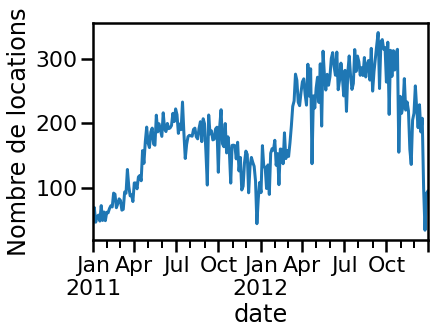
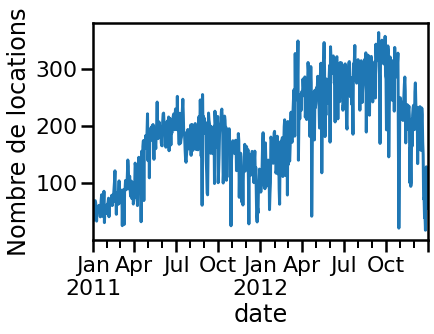
[ci skip] iter 878a1fc53d710b24057753480bd2532899af082a

diff --git a/searchindex.js b/searchindex.js
@@ -1,1 +1,1 @@
-Search.setIndex({docnames:["chapter_00/chapter_00_intro","chapter_00/file_00","chapter_00/file_01","landing-page"],envversion:{"sphinx.domains.c":2,"sphinx.domains.changeset":1,"sphinx.domains.citation":1,"sphinx.domains.cpp":4,"sphinx.domains.index":1,"sphinx.domains.javascript":2,"sphinx.domains.math":2,"sphinx.domains.python":3,"sphinx.domains.rst":2,"sphinx.domains.std":2,"sphinx.ext.intersphinx":1,sphinx:56},filenames:["chapter_00/chapter_00_intro.md","chapter_00/file_00.py","chapter_00/file_01.py","landing-page.md"],objects:{},objnames:{},objtypes:{},terms:{"0":[1,2],"000000":1,"01":1,"020000":1,"1":[1,2],"10":[1,2],"104500":1,"11":1,"12":1,"122340":1,"13":1,"14":1,"142":1,"15":1,"16":1,"17":1,"171850":1,"17378":1,"17379":1,"181":1,"189":1,"190098":1,"192556":1,"192930":1,"194000":1,"1_000":[1,2],"2":[1,2],"20":2,"2011":1,"22":1,"24":1,"25":1,"253700":1,"27":1,"2727":1,"281":1,"2879":1,"3":[1,2],"32":1,"333300":1,"340000":1,"387599":1,"3d":1,"3f":2,"4":1,"40":1,"42":1,"463088":1,"475775":1,"480000":1,"484800":1,"496987":1,"5":1,"50":[1,2],"500000":1,"6":1,"621200":1,"627229":1,"630000":1,"660000":1,"7":1,"75":1,"780000":1,"8":1,"80":1,"81":1,"850700":1,"9":1,"977":1,"\u00e9chantillon":1,"\u00e9chantillonnag":1,"\u00e9galement":1,"\u00e9quival":1,"\u00e9quivalent":1,"\u00e9t\u00e9":1,"\u00e9tudier":1,"\u00e9tudion":1,"\u00eatre":1,"acqu\u00e9rir":1,"appara\u00eet":1,"appr\u00e9cier":1,"associ\u00e9":1,"bruit\u00e9":1,"caract\u00e8r":1,"cat\u00e9gori":1,"cel\u00e0":1,"cha\u00een":1,"class":1,"concr\u00e8tement":1,"consid\u00e9r\u00e9":1,"corr\u00e9l\u00e9":1,"corr\u00e9lat":1,"d\u00e9cider":1,"d\u00e9fini":1,"d\u00e9finir":1,"d\u00e9finiron":1,"d\u00e9j\u00e0":1,"d\u00e9pendant":1,"d\u00e9viation":1,"derni\u00e8r":1,"diff\u00e9renci":1,"diff\u00e9rent":1,"dissoci\u00e9":1,"effectu\u00e9":1,"encod\u00e9":1,"exprim\u00e9":1,"final":1,"float":2,"forc\u00e9ment":1,"function":1,"g\u00e9n\u00e9ralement":1,"humidit\u00e9":1,"import":[1,2],"inf\u00e9r\u00e9":1,"int\u00e9ress":1,"int\u00e9ress\u00e9":1,"int\u00e9ressant":1,"int\u00e9rieur":1,"m\u00e9t\u00e9orologiqu":1,"m\u00e9thode":1,"m\u00eame":1,"majorit\u00e9":1,"mani\u00e8r":1,"mod\u00e8l":1,"n\u00e9gativ":1,"n\u00e9gligeon":1,"null":1,"observ\u00e9":1,"p\u00e9riod":1,"particuli\u00e8r":1,"ph\u00e9nom\u00e8n":1,"pr\u00e9c\u00e9demment":1,"pr\u00e9c\u00e9dent":1,"pr\u00e9dictif":1,"pr\u00e9diction":1,"pr\u00e9dire":1,"pr\u00e9dite":1,"pr\u00e9senc":1,"pr\u00e9sent":1,"pr\u00e9sent\u00e9":1,"pr\u00e9sentir":1,"pr\u00e9traitement":1,"pr\u00e9traiter":1,"premi\u00e8r":1,"probl\u00e8m":1,"r\u00e9soudr":1,"r\u00e9utiliseron":1,"repr\u00e9sent":1,"repr\u00e9sent\u00e9":1,"s\u00e9lectionn":1,"sp\u00e9cifiqu":1,"stock\u00e9":1,"structur\u00e9":1,"temp\u00e9ratur":1,"true":1,"unit\u00e9":1,"utilis\u00e9":1,"v\u00e9lo":1,"v\u00e9rifier":1,_:[1,2],abonn:1,acceler:1,additionel:1,advient:1,affich:1,afin:1,ailleur:1,aller:1,allon:1,alor:1,alpha:[1,2],amont:1,analys:0,anne:[1,2],appartienn:1,appel:1,apprendra:1,appri:1,arang:2,assez:1,astyp:1,atemp:2,attard:1,attendr:1,au:1,augment:1,auron:1,autr:1,aux:1,avant:1,avec:1,avoir:1,avon:1,ax:1,axi:2,base:1,besoin:1,bien:1,bike_shar:[1,2],bin:2,black:[1,2],bonn:1,boxplot:1,calcul:1,caster:1,categori:1,ce:1,ceci:1,cela:1,cell:1,cepend:1,certain:1,cet:1,cett:1,chacun:1,changer:1,chapitr:1,chaqu:1,charger:1,choic:[1,2],choisiron:1,chose:1,ci:1,cinq:1,cnt:2,colonn:1,color:1,column:[1,2],combin:1,comm:1,components_:2,comprendr:1,compris:1,compt:1,concat:2,concern:1,condit:1,conditionnel:1,connaiss:1,consist:1,constant:1,constat:1,context:1,contienn:1,convers:1,convertir:1,copi:[1,2],core:1,correspond:1,correspondr:1,couleur:1,count:1,cross_valid:2,csv:[1,2],curieux:1,cv_result:2,dai:1,dan:1,data:[1,2],datafram:[1,2],dataset:[1,2],datetim:1,datetime64:1,de:[0,2],decomposit:2,densiti:1,describ:1,design:1,dessou:1,dessu:1,deux:1,devon:1,devra:1,diag_kind:1,diagonal:1,difficil:1,discret:1,discretis:1,distanc:1,distribut:1,doit:1,donc:1,donner:1,drop:1,dt:1,dtedai:2,dtype:1,du:[1,2],edgecolor:2,effectu:1,effet:1,ell:1,empiriqu:1,en:1,encod:1,ensuit:1,entier:1,entr:1,entri:1,error:2,est:1,estim:1,etc:1,euclidienn:1,eventuel:1,exclur:1,exempl:1,exercic:1,exist:1,explained_variance_:2,explained_variance_ratio_:2,extrair:1,f:[1,2],faibl:1,faisant:1,fals:[1,2],faut:1,featur:2,feature_nam:2,fichier:1,figsiz:[1,2],fit:2,float64:1,focalis:1,foi:1,fonction:1,fonctionnera:1,form:1,frame:1,from:2,gaussienn:1,global:1,go:3,grand:1,grandeur:1,graphiqu:1,grid:2,group:1,head:1,heatmap:2,height:1,height_axi:1,heur:2,hist:[1,2],histogramm:1,holidai:2,horizontal:1,hour:[1,2],hr:2,hue:1,hum:2,humidit:[1,2],i:2,ici:1,id:1,identiqu:1,il:1,iloc:2,impact:1,inclur:1,index:[1,2],index_sous_echantillon:1,indic:2,indiqu:1,indiquerait:1,info:[1,2],inform:1,int64:1,jour:[1,2],kde:1,keep:2,kei:2,kernel:1,kind:1,la:2,le:1,learn:1,lectur:1,len:1,let:3,leur:1,liant:1,librairi:1,lien:1,lieu:1,lign:1,lineair:1,linear_model:2,list:2,loc:1,locat:[1,2],location_velo:1,location_velo_discret:1,logspac:2,loin:1,longu:1,lorsqu:1,machin:1,mainten:1,make_pipelin:2,manquant:1,margin:1,marginal:1,matplotlib:1,mauvais:1,max:1,mb:1,mean:[1,2],memori:1,meteo:[1,2],method:1,mi:1,mieux:1,min:1,mnth:2,model:2,model_select:2,moi:[1,2],moment:1,month:1,mot:1,moyenn:1,n:[1,2],n_compon:2,n_job:2,naturel:1,ne:1,neg_mean_absolute_error:2,nom:1,nombr:[1,2],non:1,none:2,normalis:1,nos:1,noter:1,notion:1,nou:1,np:[1,2],ns:1,nuag:1,nul:1,num:2,numpi:[1,2],nuniqu:1,obj:1,object:1,observ:1,observon:1,obtenir:1,obtenon:1,onli:2,option:1,ordinal:1,ordr:1,ores:1,ou:1,outil:1,pa:1,pairplot:[1,2],panda:[1,2],par:1,parse_d:[1,2],part:1,parti:1,partir:1,pc:2,pca:2,pd:[1,2],permet:1,permettr:1,pertin:1,pertinent:1,petit:1,peu:1,peut:1,peuvent:1,pipelin:2,plot:1,plt:1,plu:1,plusieur:1,point:1,possibl:1,poster:1,postiv:1,pour:1,pourraient:1,pourrait:1,pourrion:1,pourron:1,pouvon:1,pratiqu:1,pratiqueron:1,premier:1,preprocess:2,pri:1,print:2,project:2,puisqu:1,puiss:1,pyplot:1,q:1,qcut:1,qu:1,quand:1,quantil:1,que:1,quell:1,queue:1,qui:1,random:[1,2],randomst:[1,2],rang:2,rangeindex:1,rappelon:1,read_csv:[1,2],regard:1,regardon:1,relat:1,renam:2,replac:1,resampl:1,ressenti:[1,2],rest:1,revanch:1,ridgecv:2,rng:[1,2],s:3,saison:[1,2],san:1,savoir:1,scatter:1,score:2,se:1,seaborn:[1,2],season:2,select_dtyp:2,semain:[1,2],sembl:1,semblerait:1,sera:1,serait:1,seront:1,set_context:[1,2],set_index:1,set_titl:1,set_xlabel:1,set_ylabel:1,seuil:1,seulement:1,shape:2,si:1,similair:1,simpl:1,size:[1,2],sklearn:2,sn:[1,2],soit:1,somm:1,sont:1,sou:1,sqrt:2,standard:1,standardscal:2,statisqu:1,statistiqu:0,std:[1,2],stock:1,stocker:1,stripplot:1,style:1,subplot:1,subset:2,suffirait:1,suivant:1,suppos:1,sur:1,tableau:1,talk:2,target:2,te:1,tel:1,temp:[1,2],temperatur:[1,2],tendanc:1,test_scor:2,to_datetim:1,total:1,tou:1,tout:1,tradionnel:0,traditionel:1,travail:1,troi:1,type:1,un:1,uniqu:1,usag:1,util:1,utilis:1,utilison:1,vacanc:[1,2],valeur:1,valu:2,variable_a_exclur:1,variable_d:1,variable_numeriqu:1,varianc:1,venon:1,vent:[1,2],vertical:1,visualis:1,visuel:1,vitess:[1,2],voulon:1,vu:1,weathersit:2,weekdai:2,white:1,windspe:2,x:1,y:1,year:1,yr:2},titles:["Real-world examples","Analyse de statistique tradionnelle","&lt;no title&gt;","Landing page"],titleterms:{"\u00e0":1,"donn\u00e9":1,"int\u00e9r\u00eat":1,"li\u00e9e":1,"num\u00e9riqu":1,analys:1,d:1,date:1,de:1,et:1,exampl:0,heur:1,jeu:1,l:1,la:1,land:3,notr:1,page:3,real:0,statistiqu:1,tradionnel:1,variabl:1,world:0}})
+Search.setIndex({docnames:["chapter_00/chapter_00_intro","chapter_00/file_00","chapter_00/file_01","landing-page"],envversion:{"sphinx.domains.c":2,"sphinx.domains.changeset":1,"sphinx.domains.citation":1,"sphinx.domains.cpp":4,"sphinx.domains.index":1,"sphinx.domains.javascript":2,"sphinx.domains.math":2,"sphinx.domains.python":3,"sphinx.domains.rst":2,"sphinx.domains.std":2,"sphinx.ext.intersphinx":1,sphinx:56},filenames:["chapter_00/chapter_00_intro.md","chapter_00/file_00.py","chapter_00/file_01.py","landing-page.md"],objects:{},objnames:{},objtypes:{},terms:{"0":[1,2],"000000":1,"01":1,"020000":1,"1":[1,2],"10":[1,2],"104500":1,"11":1,"12":1,"122340":1,"13":1,"14":1,"142":1,"15":1,"16":1,"17":1,"171850":1,"17378":1,"17379":1,"18":1,"181":1,"189":1,"190098":1,"192556":1,"192930":1,"194000":1,"1_000":[1,2],"2":[1,2],"20":2,"2011":1,"2012":1,"22":1,"24":1,"25":1,"253700":1,"27":1,"2727":1,"281":1,"2879":1,"3":[1,2],"32":1,"333300":1,"340000":1,"387599":1,"3f":2,"4":1,"40":1,"42":1,"463088":1,"475775":1,"480000":1,"484800":1,"496987":1,"5":1,"50":[1,2],"500000":1,"6":1,"621200":1,"627229":1,"630000":1,"660000":1,"7":1,"75":1,"780000":1,"8":1,"80":1,"81":1,"850700":1,"9":1,"977":1,"\u00e9chantillon":1,"\u00e9chantillonnag":1,"\u00e9galement":1,"\u00e9gard":1,"\u00e9lement":1,"\u00e9lev\u00e9":1,"\u00e9quival":1,"\u00e9quivalent":1,"\u00e9t\u00e9":1,"\u00e9tudier":1,"\u00e9tudion":1,"\u00eatre":1,"acqu\u00e9rir":1,"aggr\u00e9gat":1,"ann\u00e9":1,"appara\u00eet":1,"appr\u00e9cier":1,"associ\u00e9":1,"bo\u00eet":1,"bruit\u00e9":1,"caract\u00e8r":1,"cat\u00e9gori":1,"cat\u00e9goriel":1,"cel\u00e0":1,"cha\u00een":1,"class":1,"concr\u00e8tement":1,"consid\u00e9r\u00e9":1,"corr\u00e9l\u00e9":1,"corr\u00e9lat":1,"d\u00e9cider":1,"d\u00e9clarer":1,"d\u00e9fini":1,"d\u00e9finir":1,"d\u00e9finiron":1,"d\u00e9j\u00e0":1,"d\u00e9pendant":1,"d\u00e9placement":1,"d\u00e9viation":1,"derni\u00e8r":1,"diff\u00e9renc":1,"diff\u00e9renci":1,"diff\u00e9rent":1,"dissoci\u00e9":1,"effectu\u00e9":1,"encod\u00e9":1,"entra\u00een":1,"exprim\u00e9":1,"final":1,"float":2,"forc\u00e9ment":1,"function":1,"g\u00e9n\u00e9ralement":1,"humidit\u00e9":1,"import":[1,2],"inf\u00e9r\u00e9":1,"int\u00e9ress":1,"int\u00e9ress\u00e9":1,"int\u00e9ressant":1,"int\u00e9rieur":1,"m\u00e9t\u00e9orologiqu":1,"m\u00e9thode":1,"m\u00eame":1,"majorit\u00e9":1,"mani\u00e8r":1,"mod\u00e8l":1,"n\u00e9cessair":1,"n\u00e9gativ":1,"n\u00e9gligeon":1,"null":1,"observ\u00e9":1,"p\u00e9riod":1,"particuli\u00e8r":1,"ph\u00e9nom\u00e8n":1,"pr\u00e9c\u00e9demment":1,"pr\u00e9c\u00e9dent":1,"pr\u00e9dictif":1,"pr\u00e9diction":1,"pr\u00e9dire":1,"pr\u00e9dite":1,"pr\u00e9senc":1,"pr\u00e9sent":1,"pr\u00e9sent\u00e9":1,"pr\u00e9sentir":1,"pr\u00e9traitement":1,"pr\u00e9traiter":1,"premi\u00e8r":1,"probl\u00e8m":1,"r\u00e9soudr":1,"r\u00e9sultera":1,"r\u00e9utiliseron":1,"repr\u00e9sent":1,"repr\u00e9sent\u00e9":1,"s\u00e9lectionn":1,"sp\u00e9cifiqu":1,"stock\u00e9":1,"structur\u00e9":1,"temp\u00e9ratur":1,"true":1,"unit\u00e9":1,"utilis\u00e9":1,"v\u00e9lo":1,"v\u00e9rifier":1,_:[1,2],abonn:1,acceler:1,additionel:1,advient:1,affich:1,afin:1,ailleur:1,aller:1,allon:1,alor:1,alpha:[1,2],amont:1,analys:0,anne:[1,2],appartienn:1,appel:1,apprendra:1,appri:1,arang:2,assez:1,astyp:1,atemp:2,attard:1,attendr:1,au:1,augment:1,auron:1,autr:1,aux:1,avant:1,avec:1,avoir:1,avon:1,ax:1,axi:2,base:1,besoin:1,bien:1,bike_shar:[1,2],bin:2,black:[1,2],bonn:1,boxplot:1,calcul:1,caster:1,categori:1,ce:1,ceci:1,cela:1,cell:1,cepend:1,certain:1,cet:1,cett:1,chacun:1,changer:1,chapitr:1,chaqu:1,charger:1,choic:[1,2],choisiron:1,chose:1,ci:1,cinq:1,cnt:2,colonn:1,color:1,column:[1,2],combin:1,comm:1,components_:2,comprendr:1,compris:1,compt:1,concat:2,concern:1,condit:1,conditionnel:1,connaiss:1,consist:1,constant:1,constat:1,context:1,contienn:1,convers:1,convertir:1,copi:[1,2],core:1,correspond:1,correspondr:1,couleur:1,count:1,cross_valid:2,csv:[1,2],curieux:1,cv_result:2,dai:1,dan:1,data:[1,2],datafram:[1,2],dataset:[1,2],datetim:1,datetime64:1,de:[0,2],decomposit:2,densiti:1,describ:1,design:1,dessou:1,dessu:1,deux:1,devon:1,devra:1,diag_kind:1,diagonal:1,difficil:1,discern:1,discret:1,discretis:1,distanc:1,distribut:1,doit:1,donc:1,donner:1,drop:1,dt:1,dtedai:2,dtype:1,du:[1,2],due:1,edgecolor:2,effectu:1,effet:1,ell:1,empiriqu:1,en:1,encod:1,ensuit:1,entier:1,entr:1,entri:1,erreur:1,error:2,est:1,estim:1,etc:1,euclidienn:1,eventuel:1,exclur:1,exempl:1,exercic:1,exist:1,explained_variance_:2,explained_variance_ratio_:2,extrair:1,f:[1,2],faibl:1,fair:1,faisant:1,fals:[1,2],faut:1,featur:2,feature_nam:2,fichier:1,figsiz:[1,2],fit:2,float64:1,focalis:1,foi:1,fonction:1,fonctionnera:1,form:1,fournit:1,frame:1,from:2,gaussienn:1,global:1,go:3,grand:1,grandeur:1,graphiqu:1,grid:2,group:1,head:1,heatmap:2,height:1,height_axi:1,heur:2,hist:[1,2],histogramm:1,holidai:2,horizontal:1,hour:[1,2],hr:2,hue:1,hum:2,humidit:[1,2],i:2,ici:1,id:1,identiqu:1,il:1,iloc:2,impact:1,inclur:1,index:[1,2],index_sous_echantillon:1,indic:2,indiqu:1,indiquerait:1,info:[1,2],inform:1,int64:1,jour:[1,2],kde:1,keep:2,kei:2,kernel:1,kind:1,la:2,le:1,learn:1,lectur:1,len:1,let:3,leur:1,liant:1,librairi:1,lien:1,lieu:1,lign:1,lineair:1,linear_model:2,list:2,loc:1,locat:[1,2],location_velo:1,location_velo_discret:1,logiqu:1,logspac:2,loin:1,longu:1,lorsqu:1,machin:1,mainten:1,make_pipelin:2,manquant:1,margin:1,marginal:1,matplotlib:1,mauvais:1,max:1,mb:1,mean:[1,2],memori:1,meteo:[1,2],method:1,mi:1,mieux:1,min:1,mnth:2,model:2,model_select:2,moi:[1,2],moment:1,month:1,mot:1,moustach:1,moyen:1,moyenn:1,n:[1,2],n_compon:2,n_job:2,naturel:1,ne:1,neg_mean_absolute_error:2,nom:1,nombr:[1,2],non:1,none:2,normalis:1,nos:1,noter:1,notion:1,nou:1,np:[1,2],ns:1,nuag:1,nul:1,num:2,numpi:[1,2],nuniqu:1,obj:1,object:1,observ:1,observon:1,obtenir:1,obtenon:1,onli:2,option:1,ordinal:1,ordr:1,ores:1,ou:1,outil:1,pa:1,pairplot:[1,2],panda:[1,2],par:1,parse_d:[1,2],part:1,parti:1,partir:1,pc:2,pca:2,pd:[1,2],permet:1,permett:1,permettr:1,personn:1,pertin:1,pertinent:1,petit:1,peu:1,peut:1,peuvent:1,pipelin:2,plot:1,plt:1,plu:1,plusieur:1,point:1,possibl:1,poster:1,postiv:1,pour:1,pourraient:1,pourrait:1,pourrion:1,pourron:1,pouvon:1,pratiqu:1,pratiqueron:1,premier:1,prendr:1,preprocess:2,pri:1,print:2,project:2,puisqu:1,puiss:1,pyplot:1,q:1,qcut:1,qu:1,quand:1,quantil:1,que:1,quell:1,queue:1,qui:1,random:[1,2],randomst:[1,2],rang:2,rangeindex:1,rappelon:1,read_csv:[1,2],regard:1,regardon:1,relat:1,renam:2,replac:1,resampl:1,ressenti:[1,2],rest:1,revanch:1,ridgecv:2,rng:[1,2],s:3,saison:[1,2],san:1,savoir:1,scatter:1,score:2,se:1,seaborn:[1,2],season:2,select_dtyp:2,semain:[1,2],sembl:1,semblerait:1,sera:1,serait:1,seront:1,set_context:[1,2],set_index:1,set_titl:1,set_xlabel:1,set_ylabel:1,seuil:1,seulement:1,shape:2,si:1,similair:1,simpl:1,size:[1,2],sklearn:2,sn:[1,2],soit:1,somm:1,sont:1,sou:1,sqrt:2,standard:1,standardscal:2,statisqu:1,statistiqu:0,std:[1,2],stock:1,stocker:1,stripplot:1,style:1,subplot:1,subset:2,suffirait:1,suivant:1,suppos:1,sur:1,tableau:1,talk:2,target:2,te:1,tel:1,temp:[1,2],temperatur:[1,2],tendanc:1,test_scor:2,to_datetim:1,total:1,tou:1,tout:1,tradionnel:0,traditionel:1,travail:1,troi:1,type:1,un:1,uniqu:1,usag:1,util:1,utilis:1,utilison:1,vacanc:[1,2],valeur:1,valu:2,variable_a_exclur:1,variable_d:1,variable_numeriqu:1,varianc:1,venon:1,vent:[1,2],vertical:1,visualis:1,visuel:1,vitess:[1,2],voulon:1,vu:1,weathersit:2,weekdai:2,white:1,windspe:2,x:1,y:1,year:1,yr:2},titles:["Real-world examples","Analyse de statistique tradionnelle","&lt;no title&gt;","Landing page"],titleterms:{"\u00e0":1,"donn\u00e9":1,"int\u00e9r\u00eat":1,"li\u00e9e":1,"num\u00e9riqu":1,analys:1,d:1,date:1,de:1,et:1,exampl:0,heur:1,jeu:1,l:1,la:1,land:3,notr:1,page:3,real:0,statistiqu:1,tradionnel:1,variabl:1,world:0}})

diff --git a/chapter_00/file_00.html b/chapter_00/file_00.html
@@ -1025,7 +1025,7 @@ analyser un eventuelle relation entre ces périodes et le nombre de locations.</
 <div class="cell docutils container">
 <div class="cell_input docutils container">
 <div class="highlight-ipython3 notranslate"><div class="highlight"><pre><span></span><span class="n">_</span><span class="p">,</span> <span class="n">ax</span> <span class="o">=</span> <span class="n">plt</span><span class="o">.</span><span class="n">subplots</span><span class="p">(</span><span class="n">figsize</span><span class="o">=</span><span class="p">(</span><span class="mi">6</span><span class="p">,</span> <span class="mi">4</span><span class="p">))</span>
-<span class="n">location_velo</span><span class="o">.</span><span class="n">set_index</span><span class="p">(</span><span class="s2">&quot;date&quot;</span><span class="p">)</span><span class="o">.</span><span class="n">resample</span><span class="p">(</span><span class="s2">&quot;3D&quot;</span><span class="p">)[</span><span class="s2">&quot;nombre de locations&quot;</span><span class="p">]</span><span class="o">.</span><span class="n">mean</span><span class="p">()</span><span class="o">.</span><span class="n">plot</span><span class="p">(</span><span class="n">ax</span><span class="o">=</span><span class="n">ax</span><span class="p">)</span>
+<span class="n">location_velo</span><span class="o">.</span><span class="n">set_index</span><span class="p">(</span><span class="s2">&quot;date&quot;</span><span class="p">)</span><span class="o">.</span><span class="n">resample</span><span class="p">(</span><span class="s2">&quot;D&quot;</span><span class="p">)[</span><span class="s2">&quot;nombre de locations&quot;</span><span class="p">]</span><span class="o">.</span><span class="n">mean</span><span class="p">()</span><span class="o">.</span><span class="n">plot</span><span class="p">(</span><span class="n">ax</span><span class="o">=</span><span class="n">ax</span><span class="p">)</span>
 <span class="n">_</span> <span class="o">=</span> <span class="n">ax</span><span class="o">.</span><span class="n">set_ylabel</span><span class="p">(</span><span class="s2">&quot;Nombre de locations&quot;</span><span class="p">)</span>
 </pre></div>
 </div>
@@ -1034,6 +1034,18 @@ analyser un eventuelle relation entre ces périodes et le nombre de locations.</
 <img alt="../_images/file_00_33_0.png" src="../_images/file_00_33_0.png" />
 </div>
 </div>
+<p>La première observation à noter sur ce graphique est que le nombre de
+locations sur l’année 2012 est le plus élevé que pour l’année 2011. Ceci est
+un élement à prendre en compte pour notre modèle prédictif. Entraîner un
+modèle prédictif sur l’année 2011 pour prédire pour l’année 2012 résultera à
+une erreur due à cette tendance.</p>
+<p>Maintenant, nous pouvons nous attarder sur les variables catégorielles
+encodées à partir de la date. Une représentation graphique assez simple
+de ces variables peut se faire en utilisant des boîtes à moustaches.
+<code class="docutils literal notranslate"><span class="pre">seaborn</span></code> fournit une méthode <code class="docutils literal notranslate"><span class="pre">boxplot()</span></code> à cet égard.</p>
+<p>Nous allons donc représenter chacune des variables catégorielles encodée. En
+revanche, il est nécessaire de déclarer que ces variables sont des
+catégories en utilisant la méthode <code class="docutils literal notranslate"><span class="pre">astype(&quot;category&quot;)</span></code>.</p>
 <div class="cell docutils container">
 <div class="cell_input docutils container">
 <div class="highlight-ipython3 notranslate"><div class="highlight"><pre><span></span><span class="n">variable_date</span> <span class="o">=</span> <span class="p">[</span>
@@ -1078,13 +1090,20 @@ analyser un eventuelle relation entre ces périodes et le nombre de locations.</
 </div>
 </div>
 <div class="cell_output docutils container">
-<img alt="../_images/file_00_36_0.png" src="../_images/file_00_36_0.png" />
-<img alt="../_images/file_00_36_1.png" src="../_images/file_00_36_1.png" />
-<img alt="../_images/file_00_36_2.png" src="../_images/file_00_36_2.png" />
-<img alt="../_images/file_00_36_3.png" src="../_images/file_00_36_3.png" />
-<img alt="../_images/file_00_36_4.png" src="../_images/file_00_36_4.png" />
+<img alt="../_images/file_00_37_0.png" src="../_images/file_00_37_0.png" />
+<img alt="../_images/file_00_37_1.png" src="../_images/file_00_37_1.png" />
+<img alt="../_images/file_00_37_2.png" src="../_images/file_00_37_2.png" />
+<img alt="../_images/file_00_37_3.png" src="../_images/file_00_37_3.png" />
+<img alt="../_images/file_00_37_4.png" src="../_images/file_00_37_4.png" />
 </div>
 </div>
+<p>Nous pouvons observer une tendance similaire pour les variables <code class="docutils literal notranslate"><span class="pre">mois</span></code> et
+<code class="docutils literal notranslate"><span class="pre">saison</span></code>. Ceci est logique vu que les saisons sont une aggrégation des mois
+de l’année.</p>
+<p>La variable permettant de discerner une différence dans le nombre de
+locations est la variable <code class="docutils literal notranslate"><span class="pre">heure</span></code>. Nous pouvons observer une augmentation du
+nombre de locations à 8 heures et entre 17 et 18 heures. Il semblerait que
+des personnes utilisent le vélo comme moyen de déplacement pour le travail.</p>
 </div>
 </div>
 </div>

diff --git a/_sources/chapter_00/file_00.py b/_sources/chapter_00/file_00.py
@@ -351,8 +351,25 @@ location_velo["date"] = pd.to_datetime(
 
 # %%
 _, ax = plt.subplots(figsize=(6, 4))
-location_velo.set_index("date").resample("3D")["nombre de locations"].mean().plot(ax=ax)
+location_velo.set_index("date").resample("D")["nombre de locations"].mean().plot(ax=ax)
 _ = ax.set_ylabel("Nombre de locations")
+
+# %% [markdown]
+#
+# La première observation à noter sur ce graphique est que le nombre de
+# locations sur l'année 2012 est le plus élevé que pour l'année 2011. Ceci est
+# un élement à prendre en compte pour notre modèle prédictif. Entraîner un
+# modèle prédictif sur l'année 2011 pour prédire pour l'année 2012 résultera à
+# une erreur due à cette tendance.
+#
+# Maintenant, nous pouvons nous attarder sur les variables catégorielles
+# encodées à partir de la date. Une représentation graphique assez simple
+# de ces variables peut se faire en utilisant des boîtes à moustaches.
+# `seaborn` fournit une méthode `boxplot()` à cet égard.
+#
+# Nous allons donc représenter chacune des variables catégorielles encodée. En
+# revanche, il est nécessaire de déclarer que ces variables sont des
+# catégories en utilisant la méthode `astype("category")`.
 
 # %%
 variable_date = [
@@ -386,4 +403,14 @@ for variable in variable_date:
         ax=ax,
     )
 
-# %%
+# %% [markdown]
+#
+# Nous pouvons observer une tendance similaire pour les variables `mois` et
+# `saison`. Ceci est logique vu que les saisons sont une aggrégation des mois
+# de l'année.
+#
+# La variable permettant de discerner une différence dans le nombre de
+# locations est la variable `heure`. Nous pouvons observer une augmentation du
+# nombre de locations à 8 heures et entre 17 et 18 heures. Il semblerait que
+# des personnes utilisent le vélo comme moyen de déplacement pour le travail.
+
